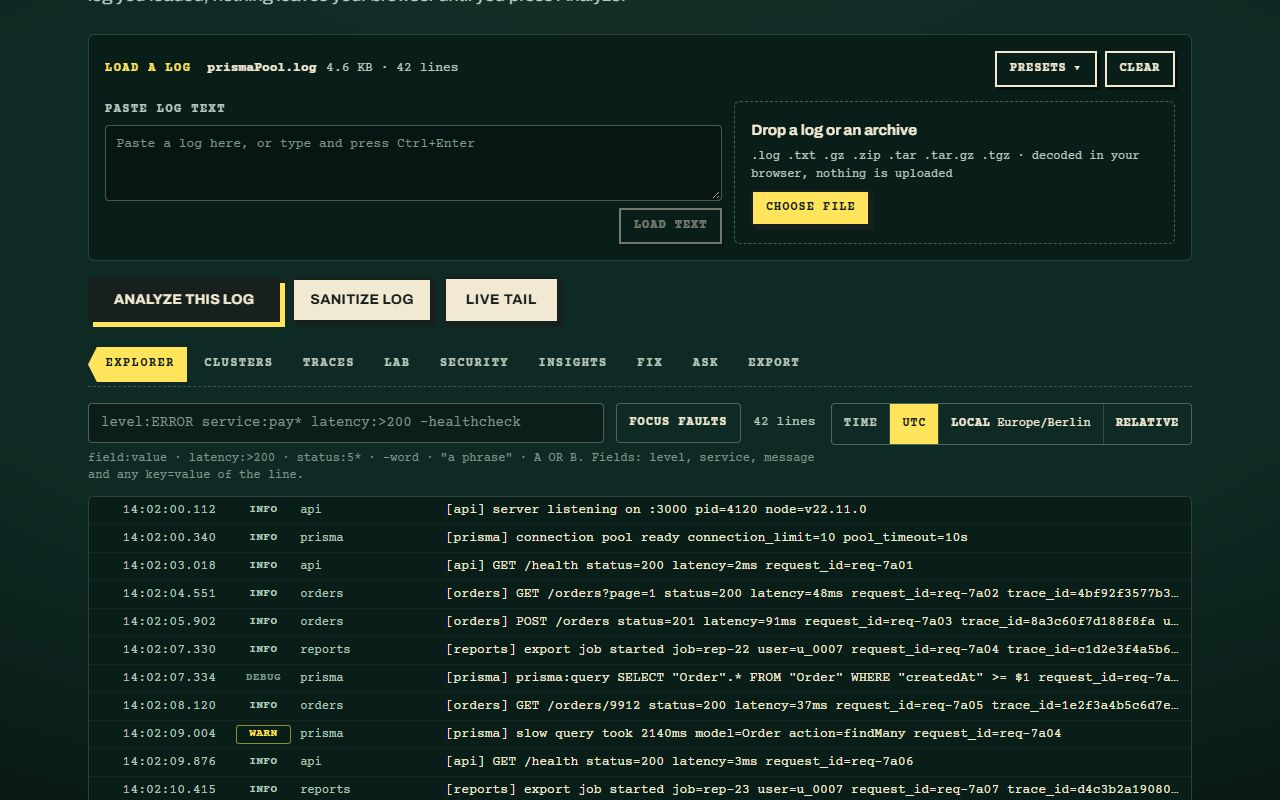
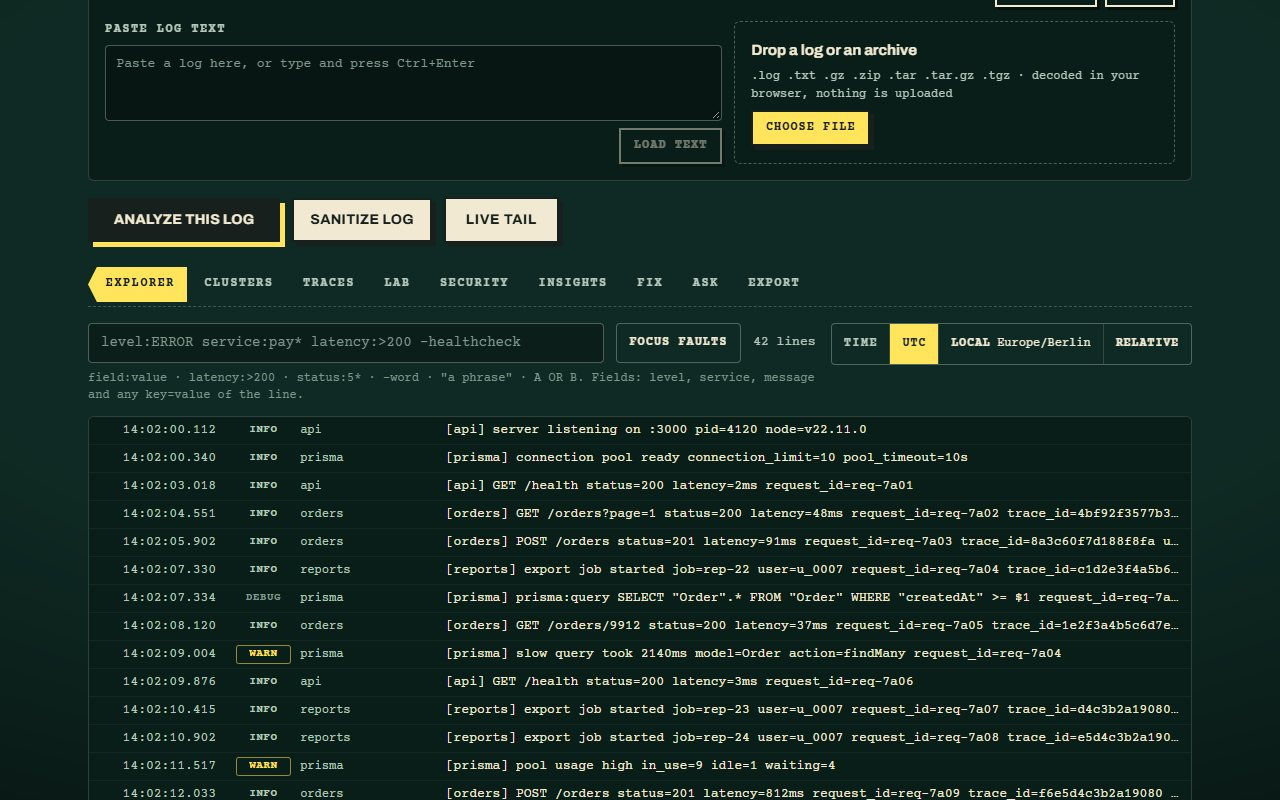
Font ospitati in locale, test su cause radice ambigue, documenti ripuliti
- Archivo (variabile, con asse di larghezza) e Courier Prime arrivano dai pacchetti
  Fontsource (licenza OFL) invece che da Google Fonts: nessuna richiesta di terze
  parti, coerente con la pagina privacy che non cita Google, e la CSP non ammette
  piu' fonts.googleapis.com ne' fonts.gstatic.com.
- ambiguousInputs.test.ts: sei log ambigui, incompleti o contraddittori non devono
  produrre una causa radice inventata (solo insufficiente o non verificata).
- Screenshot del README rifatti dall'interfaccia attuale.
- Rimossi stato.md, backlog-miglioramenti.md, checklist.md e changelog.md (registri
  di lavorazione, con numeri ormai superati); decisioni e architettura aggiornate.

diff --git a/server/src/analysis/ambiguousInputs.test.ts b/server/src/analysis/ambiguousInputs.test.ts
@@ -1,0 +1,84 @@
+import { describe, expect, it } from 'vitest';
+
+import { RulesProvider } from '../ai/providers/rulesProvider';
+import { analyzeLogWith } from '../services/analysisService';
+
+/**
+ * Logs that look like they have a cause but do not prove one. The engine must say "insufficient"
+ * (or at most "unverified") instead of picking a culprit: a wrong confirmed cause is worse than
+ * none. Each log is small on purpose, so the reason it proves nothing is easy to see.
+ */
+const AMBIGUOUS_LOGS: Record<string, string> = {
+  'a change written after the failures it would explain': [
+    '2026-11-03T10:00:01Z ERROR checkout request_id=a1 POST /checkout failed status=500',
+    '2026-11-03T10:00:02Z ERROR checkout request_id=a2 POST /checkout failed status=500',
+    '2026-11-03T10:05:00Z INFO deploy-bot config cache.ttl changed from 60 to 5 by=ci',
+  ].join('\n'),
+
+  'two changes before the failures and nothing tying the failures to either': [
+    '2026-11-03T09:00:00Z INFO deploy-bot config pool.size changed from 20 to 5 by=ci',
+    '2026-11-03T09:01:00Z INFO deploy-bot config feature.flag.newcart changed from false to true by=ci',
+    '2026-11-03T09:10:00Z ERROR api request_id=r1 POST /orders failed status=500 error="timeout"',
+    '2026-11-03T09:10:02Z ERROR api request_id=r2 POST /orders failed status=500 error="timeout"',
+  ].join('\n'),
+
+  'only effects, with no cause anywhere': [
+    '2026-11-03T09:10:00Z ERROR api request_id=r1 upstream returned status=502',
+    '2026-11-03T09:10:03Z ERROR api request_id=r2 upstream returned status=502',
+    '2026-11-03T09:10:05Z ERROR api request_id=r3 upstream returned status=502',
+  ].join('\n'),
+
+  'a failure with a healthy dependency and an unrelated change': [
+    '2026-11-03T09:00:00Z INFO deploy-bot config db.host changed from db1 to db2 by=ci',
+    '2026-11-03T09:01:00Z INFO db health check ok host=db2 latency=3ms',
+    '2026-11-03T09:02:00Z ERROR api request_id=r1 POST /orders failed status=500 error="validation: sku missing"',
+    '2026-11-03T09:02:30Z INFO db health check ok host=db2 latency=2ms',
+  ].join('\n'),
+
+  'a failure that the log says was recovered': [
+    '2026-11-03T09:00:00Z ERROR cache redis connect ECONNREFUSED 10.0.0.5:6379',
+    '2026-11-03T09:00:05Z WARN cache retry 1 of 3',
+    '2026-11-03T09:00:10Z INFO cache connection restored, errors=0',
+    '2026-11-03T09:01:00Z INFO api GET /orders 200 12ms',
+  ].join('\n'),
+
+  'a log cut in the middle of a stack trace': [
+    '2026-11-03T09:00:00Z ERROR api Unhandled exception: TypeError: Cannot read properties of undefined',
+    '    at buildReport (/app/src/report.ts:42:18)',
+    '    at async handler (/app/src/ser',
+  ].join('\n'),
+};
+
+describe('root cause with ambiguous, incomplete or contradictory logs', () => {
+  it.each(Object.entries(AMBIGUOUS_LOGS))('does not invent a cause: %s', async (_name, log) => {
+    const { report } = await analyzeLogWith(new RulesProvider(), log);
+    const incidents = report.incidents ?? [];
+
+    expect(incidents.length).toBeGreaterThan(0);
+    for (const incident of incidents) {
+      expect(['insufficient', 'unverified']).toContain(incident.rootCause.status);
+    }
+  });
+
+  it('never names the change written after the failures as their cause', async () => {
+    const { report } = await analyzeLogWith(
+      new RulesProvider(),
+      AMBIGUOUS_LOGS['a change written after the failures it would explain'],
+    );
+
+    const summaries = (report.incidents ?? []).map((incident) => incident.rootCause.summary);
+    expect(summaries.join(' ')).not.toContain('cache.ttl');
+  });
+
+  it('keeps every incident tied to evidence that exists in the log', async () => {
+    const log =
+      AMBIGUOUS_LOGS['two changes before the failures and nothing tying the failures to either'];
+    const { report } = await analyzeLogWith(new RulesProvider(), log);
+
+    for (const incident of report.incidents ?? []) {
+      for (const evidence of incident.rootCause.evidence) {
+        expect(log).toContain(evidence.quote);
+      }
+    }
+  });
+});

diff --git a/client/index.html b/client/index.html
@@ -9,12 +9,6 @@
     <link rel="icon" type="image/png" sizes="192x192" href="/icon-192.png" />
     <link rel="apple-touch-icon" href="/apple-touch-icon.png" />
     <link rel="manifest" href="/site.webmanifest" />
-    <link rel="preconnect" href="https://fonts.googleapis.com" />
-    <link rel="preconnect" href="https://fonts.gstatic.com" crossorigin />
-    <link
-      href="https://fonts.googleapis.com/css2?family=Archivo:wdth,wght@62..125,400..900&family=Courier+Prime:wght@400;700&display=swap"
-      rel="stylesheet"
-    />
     <meta name="google-site-verification" content="ibT3EAjqxYgr5q7LIRyvW1twlqwuN5mXAtrGTPpS_WQ" />
   </head>
   <body>

diff --git a/server/src/repositories/attemptReservation.integration.test.ts b/server/src/repositories/attemptReservation.integration.test.ts
@@ -90,7 +90,9 @@ describe.skipIf(!testDatabaseUrl)('tryReserveAttempt on a real PostgreSQL', () =
   it('forgets attempts older than one hour and frees their place', async () => {
     const limits = { perClientPerHour: 1, globalPerHour: 0 };
     const twoHoursAgo = new Date(Date.now() - 2 * 60 * 60 * 1000);
-    await prisma.analysisAttempt.create({ data: { clientHash: 'client-a', createdAt: twoHoursAgo } });
+    await prisma.analysisAttempt.create({
+      data: { clientHash: 'client-a', createdAt: twoHoursAgo },
+    });
 
     const decision = await tryReserveAttempt('client-a', limits);
 

diff --git a/client/src/index.css b/client/src/index.css
@@ -30,7 +30,7 @@
   --color-felt-deep: #0a1e19;
   --color-pen-deep: #8f2416;
 
-  --font-sans: 'Archivo', ui-sans-serif, system-ui, sans-serif;
+  --font-sans: 'Archivo Variable', 'Archivo', ui-sans-serif, system-ui, sans-serif;
   --font-mono: 'Courier Prime', 'Courier New', ui-monospace, monospace;
 }
 

diff --git a/client/src/main.tsx b/client/src/main.tsx
@@ -1,3 +1,6 @@
+import '@fontsource-variable/archivo/wdth.css';
+import '@fontsource/courier-prime/400.css';
+import '@fontsource/courier-prime/700.css';
 import { Analytics } from '@vercel/analytics/react';
 import { StrictMode } from 'react';
 import { createRoot } from 'react-dom/client';

diff --git a/docs/decisions.md b/docs/decisions.md
@@ -2,12 +2,20 @@
 
 Ogni voce: data, decisione, motivo, alternative scartate.
 
+## 2026-11-09 — Anteprime social e pubblicazione
+
+- **Un HTML per pagina, generato in build, senza SSR.** Un crawler che non esegue JavaScript legge solo l'HTML che riceve; con una sola `index.html` tutte le pagine avrebbero avuto i tag della home. Il plugin `client/plugins/socialPages.ts` scrive `workbench.html`, `privacy.html`, `shared.html` ecc. a partire da `pageMeta.ts` (la stessa tabella che imposta il titolo della scheda) e Vercel indirizza ogni percorso al suo file. Scartato: migrare a Next.js (costo sproporzionato per sette pagine) e un servizio di prerendering.
+- **Pagine private senza canonical né `og:url`.** Cronologia, analisi, report condiviso e 404 sono `noindex` (meta e `X-Robots-Tag`). L'indirizzo di un report condiviso contiene il token: non viene copiato nei metadati. L'anteprima di un link condiviso è quindi generica e uguale per tutti, e non rivela nulla del report. Scartato: un'anteprima dinamica con il titolo del report (servirebbe leggere il report per ogni crawler, esponendo contenuti e rendendo la revoca meno netta).
+- **`robots.txt` non blocca più `/shared/`.** Un crawler che non può leggere la pagina non vede nemmeno l'anteprima (Facebook rispetta `robots.txt`) e non vede il `noindex`. L'esclusione dall'indice è affidata a header e meta; `robots.txt` blocca solo `/api/`.
+- **Immagine Open Graph in JPEG.** 1200×630, 112 KB: il PNG equivalente pesava 300 KB, il limite oltre cui alcune app (WhatsApp) smettono di mostrare l'anteprima grande. Il sorgente (`client/brand/og-image.html`) si rigenera con `npm run brand:render`.
+- **Vero 404 per gli indirizzi sconosciuti** (prima 200 con la home), e cache di un anno per `/assets/*`, i cui nomi contengono l'hash del contenuto.
+
 ## 2026-11-08 — Audit di sicurezza e affidabilità
 
 - **Report condiviso:** la pulizia avviene alla lettura, non al salvataggio. Il report del proprietario cita le righe com'è, così i numeri di riga funzionano; chi apre il link riceve solo testo mascherato. Motivo: vale anche per i report già salvati e non cambia i dati. Scartato: pulire alla scrittura (i vecchi report resterebbero esposti) e una migrazione del database.
 - **Pseudonimi per le sessioni:** un id di sessione è una credenziale; al modello arriva `session-N`, stabile, così le relazioni tra eventi restano. Gli id di richiesta, traccia e ordine restano in chiaro: senza di essi il modello non segue una storia. Scartato: mascherare tutti gli identificatori.
 - **Certezza della causa radice:** un modello può abbassarla sempre; può alzarla solo con prove che il motore stesso riconosce (un legame causale dagli eventi citati ai guasti dell'incidente). Esistere non è causare. "Confermata" resta del solo motore. Scartato: impedire ogni promozione (il modello deve poter migliorare una conclusione quando le prove ci sono).
-- **Limite orario:** una transazione PostgreSQL con lock consultivo, non Redis: nessun servizio in più e il database c'è già. Il prezzo è che le prenotazioni fanno la coda per pochi millisecondi. Non provato su un PostgreSQL vero in questo ambiente.
+- **Limite orario:** una transazione PostgreSQL con lock consultivo, non Redis: nessun servizio in più e il database c'è già. Il prezzo è che le prenotazioni fanno la coda per pochi millisecondi. Provato su un PostgreSQL vero con connessioni concorrenti (`attemptReservation.integration.test.ts`, in CI con un servizio PostgreSQL): senza il lock, 10 richieste simultanee con limite globale 4 passano tutte.
 - **Visitatore senza account:** `X-Visitor-Id` resta un identificatore come un cookie di sessione, con un controllo contro id banali. Documentato che non protegge log sensibili. Scartato: login (non serve a una demo), hash dell'id nel database (renderebbe illeggibili le righe esistenti).
 - **Produzione:** il server si rifiuta di partire con una configurazione debole invece di avvisare, per le variabili che non si possono correggere dopo (sale, provider). Per quelle correggibili (proxy, cron, CORS) solo avvisi.
 

diff --git a/docs/architecture.md b/docs/architecture.md
@@ -140,12 +140,31 @@ before it existed are cleaned too. The raw log, the owner and the address hash a
 The response is sent with `Cache-Control: no-store`, `X-Robots-Tag: noindex` and
 `Referrer-Policy: no-referrer`, and the analytics event of the page has the token removed.
 
+## Page HTML and link previews
+
+The client is a single-page app, but a crawler that does not run JavaScript (the ones of chat apps
+and search engines) reads only the HTML it receives. So every page has its own HTML file, written
+when the client is built: `plugins/socialPages.ts` fills `index.html` and writes `workbench.html`,
+`privacy.html`, `history.html`, `analysis.html`, `shared.html` and `404.html`, each with its own
+title, description, canonical address and Open Graph / Twitter tags
+(`plugins/pageHead.ts`, from `content/pageMeta.ts`). `server/scripts/build-vercel.mjs` routes each
+address to its file, answers unknown addresses with a real 404 and sends `X-Robots-Tag` on the
+private pages. The preview image is `client/public/og-image.jpg` (1200 × 630), drawn from
+`client/brand/og-image.html` by `npm run brand:render` in `client/`.
+
+The private pages (history, one analysis, a shared report, 404) are `noindex` and have no
+canonical address or `og:url`: the address of a shared report holds its token, which must not be
+copied into metadata. A shared link therefore shows the same generic preview as any other page and
+reveals nothing about the report.
+
 ## Hourly limits
 
 `tryReserveAttempt` (in `analysisRepository.ts`) checks the per-client and the global limit and
 records the attempt in one transaction that first takes a PostgreSQL advisory lock. Requests that
 arrive together queue on the lock, so exactly the allowed number passes and a refused attempt is
-never written. The per-minute limit (`middleware/apiRateLimit.ts`) stays in each instance's memory,
+never written. `attemptReservation.integration.test.ts` runs it against a real PostgreSQL with
+concurrent connections (a service container in CI, any local database through
+`TEST_DATABASE_URL`). The per-minute limit (`middleware/apiRateLimit.ts`) stays in each instance's memory,
 with a hard cap on the addresses it remembers.
 
 ## Where the analysis runs
@@ -184,6 +203,8 @@ LogLens/
 │   ├── src/pages/        # analyze, history, report, shared link, privacy
 │   ├── src/content/      # every visible text, in English and Italian
 │   ├── src/workbench/    # the Workbench, one folder per tab
+│   ├── plugins/          # build step: one HTML file per page with its own link-preview tags
+│   ├── brand/            # source of the social preview image (npm run brand:render)
 │   └── e2e/              # Playwright end-to-end tests
 ├── server/               # Express + TypeScript
 │   ├── src/routes/       # the /api routes
@@ -193,7 +214,7 @@ LogLens/
 │   ├── benchmarks/       # scenarios with known answers and the evaluator
 │   ├── src/services/     # limits, retention, saving analyses
 │   └── prisma/           # schema.prisma and seed
-├── docs/                 # architecture, prompts, decisions, status, changelog, screenshots
+├── docs/                 # architecture, prompts, decisions, benchmarks, screenshots
 ├── examples/             # sample logs to try the app with
 ├── vercel.json           # build command and the daily cron
 └── .github/workflows/    # CI
